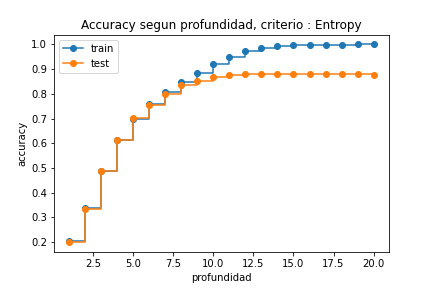
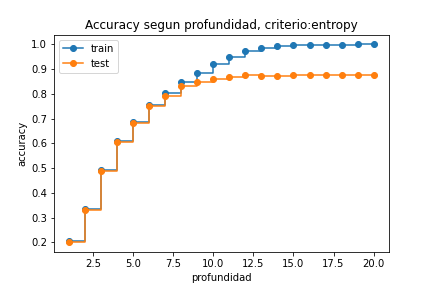
ej6 formateo de informe

diff --git a/digitos_altaData.py b/digitos_altaData.py
@@ -348,7 +348,23 @@ print("Precisión promedio:", average_accuracy)
 # Trabajar nuevamente con el dataset de todos los dígitos. Ajustar un
 # modelo de árbol de decisión. Analizar distintas profundidades.
 # =============================================================================
+import time
 
+#Sin definir profundidad(sin prepruning)
+
+X = df.iloc[:,1:]
+Y = df['digito']
+clf = DecisionTreeClassifier(criterion = "entropy")
+clf.fit(X_train, Y_train)
+Y_pred = clf.predict(X_test)
+Y_pred_train = clf.predict(X_train)
+acc_test = metrics.accuracy_score(Y_test, Y_pred)
+acc_train = metrics.accuracy_score(Y_train, Y_pred_train)
+print("Criterio: entropy")
+print("Test:",acc_test)
+print("Train:",acc_train)
+print("Profundidad:",model.tree_.max_depth) #20
+#%%
 def entrenar_y_graficar(X,Y,criterio,Nrep,k,nombre_archivo):
     valores_k = range(1,k+1)
     resultados_test = np.zeros( (Nrep,k))
@@ -372,64 +388,23 @@ def entrenar_y_graficar(X,Y,criterio,Nrep,k,nombre_archivo):
     plt.plot(valores_k, promedios_train, label = 'Train')
     plt.plot(valores_k, promedios_test, label = 'Test')
     plt.legend()
-    plt.title('Exactitud de arboles de decision')
+    title = "Accuracy segun profundidad, criterio:" + criterio
+    plt.title(title)
     plt.xlabel('Profundidad')
     plt.ylabel('Exactitud (accuracy)')
     archive = "./data/" + nombre_archivo + ".png"
     plt.savefig(archive)
     plt.show()
+# Iniciar el contador de tiempo
+start_time = time.time()
 
-def entrenar_y_graficarAlt(X,Y,criterio,k,nombre_archivo):
-    valores_k = range(1,k+1)
-    resultados_test = np.zeros(k)
-    resultados_train = np.zeros(k)
+entrenar_y_graficar(X, Y, "entropy",5, 20, "entropy_k_20_n_5reps")
+entrenar_y_graficar(X, Y, "gini",5, 20, "entropy_k_20_5reps")
 
-    X_train, X_test, Y_train, Y_test = train_test_split(X, Y, test_size = 0.3)
-    for j in valores_k:
-        model = DecisionTreeClassifier(criterion = criterio,max_depth = j)
-        model.fit(X_train, Y_train)
-        Y_pred = model.predict(X_test)
-        Y_pred_train = model.predict(X_train)
-        acc_test = metrics.accuracy_score(Y_test, Y_pred)
-        acc_train = metrics.accuracy_score(Y_train, Y_pred_train)
-        resultados_test[j-1] = acc_test
-        resultados_train[j-1] = acc_train
-    plt.plot(valores_k, resultados_train, label = 'Train')
-    plt.plot(valores_k, 
-             resultados_test,
-             label = 'Test',
-             marker="o",
-             drawstyle="steps-post")
-    plt.legend()
-    plt.title('Exactitud de arboles de decision')
-    plt.xlabel('Profundidad')
-    plt.ylabel('Exactitud (accuracy)')
-    archive = "./data/" + nombre_archivo + ".png"
-    plt.savefig(archive)
-    plt.show()
-
-X = df.iloc[:,1:]
-Y = df['digito']
-#Criterio: entropy
-#entrenar_y_graficar(X,Y,"entropy",5,12,"entropy_k_12_N_5")
-entrenar_y_graficarAlt(X, Y, "entropy", 20, "entropy_k_20")
-#Criterio: gini
-entrenar_y_graficarAlt(X, Y, "gini", 20, "entropy_k_20")
-#%%
-#Sin definir profundidad(sin prepruning)
-clf = DecisionTreeClassifier(criterion = "entropy")
-clf.fit(X_train, Y_train)
-Y_pred = clf.predict(X_test)
-Y_pred_train = clf.predict(X_train)
-acc_test = metrics.accuracy_score(Y_test, Y_pred)
-acc_train = metrics.accuracy_score(Y_train, Y_pred_train)
-print("Criterio: entropy")
-print("Test:",acc_test)
-print("Train:",acc_train)
-print(model.tree_.max_depth)
-#%%
-X = df.iloc[:,1:]
-Y = df['digito']
+end_time = time.time()
+execution_time = end_time - start_time
+print(f"Tiempo de ejecución: {execution_time} segundos")
+#%% Analizamos distintas profundidades
 def entrenar_hasta_prof_k(X,Y,criterio,k,nombre_archivo):
     valores_k = range(1,k+1)
     clfs = []
@@ -446,14 +421,28 @@ def entrenar_hasta_prof_k(X,Y,criterio,k,nombre_archivo):
     fig, ax = plt.subplots()
     ax.set_xlabel("profundidad")
     ax.set_ylabel("accuracy")
-    ax.set_title("Accuracy segun profundidad, criterio : Entropy")
+    title = "Accuracy segun profundidad, criterio:" + criterio
+    ax.set_title(title)
     ax.plot(valores_k, train_scores, marker="o", label="train", drawstyle="steps-post")
     ax.plot(valores_k, test_scores, marker="o", label="test", drawstyle="steps-post")
     ax.legend()
     archive = "./data/" + nombre_archivo + ".png"
     plt.savefig(archive)
     plt.show()
-entrenar_hasta_prof_k(X,Y,"entropy",20,"clf_hasta_20k_entropy")
+    
+X = df.iloc[:,1:]
+Y = df['digito']
+
+# Iniciar el contador de tiempo
+start_time = time.time()
+# Código que deseas medir
+entrenar_hasta_prof_k(X,Y,"gini",20,"clf_hasta_20k_gini")
+entrenar_hasta_prof_k(X,Y,"entropy",20,"clf_hasta_20k_entropy") #5 min de ejecucion
+# Finalizar el contador de tiempo y calcular la duración
+end_time = time.time()
+execution_time = end_time - start_time
+
+print(f"Tiempo de ejecución: {execution_time} segundos")
 #%%
 clf = DecisionTreeClassifier(random_state=42)
 
